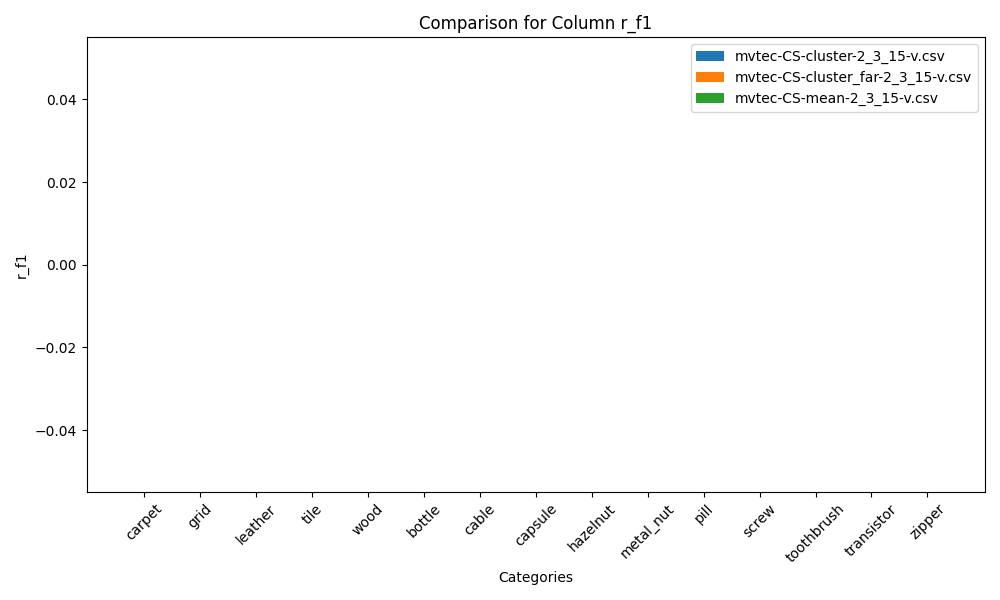
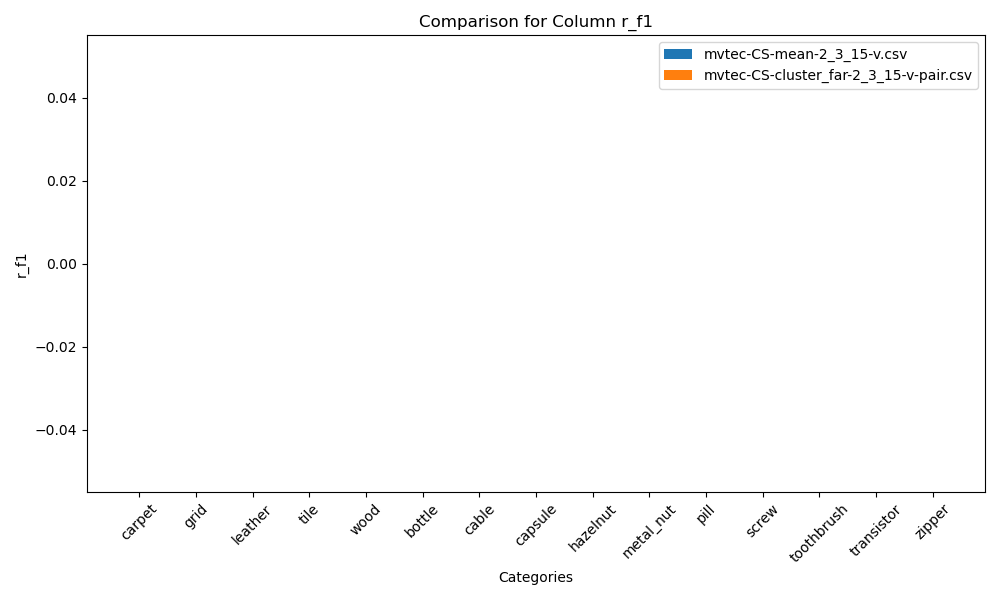
Add text pair code

diff --git a/CLIP_Surgery_zzx/model_inference.py b/CLIP_Surgery_zzx/model_inference.py
@@ -284,11 +284,140 @@ def encode_text_with_prompt_ensemble_anomaly_category(model, category, device, p
     prompt_feature_visualize_4_groups(normal_text_features, abnormal_text_features, tot_nomral_text_features, tot_abnormal_text_features, centroid_normal_text_features, centroid_abnormal_text_features)
     
     if prompt_engineer == 'cluster':
-        return text_features
+        return text_features, normal_text_features, abnormal_text_features, tot_nomral_text_features, tot_abnormal_text_features, centroid_normal_text_features, centroid_abnormal_text_features
     elif prompt_engineer == 'cluster_far':
         centroid_text_features = [torch.from_numpy(centroid_normal_text_features),torch.from_numpy(centroid_abnormal_text_features)]
         centroid_text_features = torch.cat(centroid_text_features, dim=0).to(device)
-        return [centroid_text_features]
+        return [centroid_text_features], normal_text_features, abnormal_text_features, tot_nomral_text_features, tot_abnormal_text_features, centroid_normal_text_features, centroid_abnormal_text_features
+    
+def encode_text_with_prompt_ensemble_anomaly_category_pair_contrast(model, category, device, prompt_engineer):
+    
+    template_level_prompts = [
+        'a cropped photo of the {}',
+        'a cropped photo of a {}',
+        'a close-up photo of a {}',
+        'a close-up photo of the {}',
+        'a bright photo of a {}',
+        'a bright photo of the {}',
+        'a dark photo of the {}',
+        'a dark photo of a {}',
+        'a jpeg corrupted photo of a {}',
+        'a jpeg corrupted photo of the {}',
+        'a blurry photo of the {}',
+        'a blurry photo of a {}',
+        'a photo of a {}',
+        'a photo of the {}',
+        'a photo of a small {}',
+        'a photo of the small {}',
+        'a photo of a large {}',
+        'a photo of the large {}',
+        'a photo of the {} for visual inspection',
+        'a photo of a {} for visual inspection',
+        'a photo of the {} for anomaly detection',
+        'a photo of a {} for anomaly detection'
+    ]
+    
+    state_level_normal_prompts = [
+        # '{}',
+        'flawless {}',
+        'perfect {}',
+        'good {}',
+        'undamaged {}',
+        'unbroken {}',
+        'unblemished {}',
+        '{} without flaw',
+        '{} without defect',
+        '{} without damage'
+        #'three flawless, perfect and unblemished {} with different colors without any defect, flaw or damage in a bowl',
+        #    'flawless, perfect and unblemished {} without any defect, flaw or damage'
+    ]
+
+    state_level_abnormal_prompts = [
+        #   'damaged {} with flaw or defect or damage',
+            'flawed {}',
+            'imperfect {}',
+            'bad {}',
+            'damaged {}',
+            'broken {}',
+            'blemished {}',
+            '{} with flaw',
+            '{} with defect',
+            '{} with damage',
+        ##   '{} with missing parts'
+        ##   '{} with print',  # added
+        ##    '{} with hole',  # added
+        ##   '{} with crack', # added
+        ##   '{} with scratch', # added
+        ##    '{} with discoloration',
+        ##    '{} with stains',
+        ##    '{} with missing parts',
+        ##    '{} with broken parts',
+        ##    '{} with bumpy surfaces'
+    ]
+
+    text_features = []
+    normal_text_features = []
+    abnormal_text_features = []
+    tot_nomral_text_features = []
+    tot_abnormal_text_features = []
+    # some categories can be renamed to generate better embedding
+    #if category == 'grid':
+    #    category  = 'chain-link fence'
+    #if category == 'toothbrush':
+    #    category = 'brush' #'brush' #
+    for template_prompt in template_level_prompts:
+        template_text_features = []
+        # normal prompts
+        template_normal_phrases = []
+        for normal_prompt in state_level_normal_prompts:
+            phrase = template_prompt.format(normal_prompt.format(category))
+            template_normal_phrases += [phrase]
+
+        # abnormal prompts
+        template_anormal_phrases = []
+        for abnormal_prompt in state_level_abnormal_prompts:
+            phrase = template_prompt.format(abnormal_prompt.format(category))
+            template_anormal_phrases += [phrase]
+
+        template_normal_phrases = tokenize(template_normal_phrases).to(device)
+        template_anormal_phrases = tokenize(template_anormal_phrases).to(device)
+    
+        template_normal_text_features = model(template_normal_phrases)
+        template_abnormal_text_features = model(template_anormal_phrases)
+        
+        tot_nomral_text_features.append(template_normal_text_features)
+        tot_abnormal_text_features.append(template_abnormal_text_features)
+        
+        template_normal_text_features /= template_normal_text_features.norm(dim=-1, keepdim=True)
+        template_normal_text_features = template_normal_text_features.mean(dim=0)
+        template_normal_text_features /= template_normal_text_features.norm()
+        template_text_features.append(template_normal_text_features)
+        normal_text_features.append(template_normal_text_features)
+        
+        template_abnormal_text_features /= template_abnormal_text_features.norm(dim=-1, keepdim=True)
+        template_abnormal_text_features = template_abnormal_text_features.mean(dim=0)
+        template_abnormal_text_features /= template_abnormal_text_features.norm()
+        template_text_features.append(template_abnormal_text_features)
+        abnormal_text_features.append(template_abnormal_text_features)
+        
+        
+        template_text_features = torch.stack(template_text_features, dim=1).to(device).t()
+        
+        text_features.append(template_text_features)    
+
+    tot_nomral_text_features = torch.cat(tot_nomral_text_features, dim=0).to(device)
+    tot_abnormal_text_features = torch.cat(tot_abnormal_text_features, dim=0).to(device)
+    # visualize the group of features
+    # prompt_feature_visualize(normal_text_features, abnormal_text_features, tot_nomral_text_features, tot_abnormal_text_features)
+    centroid_normal_text_features, centroid_abnormal_text_features = centroid_feature_engineer(normal_text_features, abnormal_text_features)
+    prompt_feature_visualize_4_groups(normal_text_features, abnormal_text_features, tot_nomral_text_features, tot_abnormal_text_features, centroid_normal_text_features, centroid_abnormal_text_features)
+    
+    if prompt_engineer == 'cluster':
+        return text_features, normal_text_features, abnormal_text_features, tot_nomral_text_features, tot_abnormal_text_features, centroid_normal_text_features, centroid_abnormal_text_features
+    elif prompt_engineer == 'cluster_far':
+        centroid_text_features = [torch.from_numpy(centroid_normal_text_features),torch.from_numpy(centroid_abnormal_text_features)]
+        centroid_text_features = torch.cat(centroid_text_features, dim=0).to(device)
+        return [centroid_text_features], normal_text_features, abnormal_text_features, tot_nomral_text_features, tot_abnormal_text_features, centroid_normal_text_features, centroid_abnormal_text_features
 
 import matplotlib.pyplot as plt
 from sklearn.manifold import TSNE

diff --git a/CLIP_Surgery_zzx/test_prompt_pair.py b/CLIP_Surgery_zzx/test_prompt_pair.py
@@ -8,13 +8,14 @@ from utils.csv_utils import *
 from utils.metrics import *
 from utils.training_utils import *
 from utils.eval_utils import *
-from model_inference import encode_text_with_prompt_ensemble_anomaly, encode_text_with_prompt_ensemble_anomaly_category
+from model_inference import encode_text_with_prompt_ensemble_anomaly, encode_text_with_prompt_ensemble_anomaly_category, encode_text_with_prompt_ensemble_anomaly_category_pair_contrast
 
 from torchvision.utils import save_image
+from tqdm import tqdm
 
 import clip_zzx
 
-def test(model_text,
+def test_analyse(model_text,
          model_image,
          preprocess,
          dataloader: DataLoader,
@@ -31,11 +32,11 @@ def test(model_text,
     if prompt_engineer == 'mean':
         text_features = encode_text_with_prompt_ensemble_anomaly(model_text, class_name, device)
     else:
-        text_features, _ = encode_text_with_prompt_ensemble_anomaly_category(model_text, class_name, device, prompt_engineer)
+        # text_features, normal_text_features, abnormal_text_features, tot_nomral_text_features, tot_abnormal_text_features, centroid_normal_text_features, centroid_abnormal_text_features = encode_text_with_prompt_ensemble_anomaly_category(model_text, class_name, device, prompt_engineer)
+        text_features, normal_text_features, abnormal_text_features, tot_nomral_text_features, tot_abnormal_text_features, centroid_normal_text_features, centroid_abnormal_text_features = encode_text_with_prompt_ensemble_anomaly_category_pair_contrast(model_text, class_name, device, prompt_engineer)
         
     # model.build_text_feature_gallery(class_name)
     logger.info('build text feature gallery finished.')
-
 
     scores = []
     multi_scale_scores = []
@@ -70,9 +71,47 @@ def test(model_text,
         case_similarity_map_list = []
         for text_feature in text_features:
             features = image_features @ text_feature.t()
+            
+            '''Search for largest text prompt pairs
+            '''
+            # image_features = image_features[:, 1:, :]        
+                
+            # normal_features = image_features @ tot_nomral_text_features.t()         # shape = [B, n^2, num_text_prompts]
+            # abnormal_features = image_features @ tot_abnormal_text_features.t() 
+            
+            # # Search maximum distance prompt pairs
+            # # distances = torch.norm(normal_features - abnormal_features, dim = (0, 1, 2))
+            # max_distances, max_distance_indices = torch.max(torch.norm(normal_features - abnormal_features, dim = 1), dim=1)
+            # normality_and_abnormality_features = torch.stack((normal_features[torch.arange(normal_features.shape[0]), :, max_distance_indices], abnormal_features[torch.arange(abnormal_features.shape[0]), :, max_distance_indices]), dim = -1)
+            
+            
+            
+            '''Random search'''
+            # # Initialize variables to store the maximum distance and corresponding indices
+            # max_distance = -1
+            # max_distance_indices = None
+            # # choose the features based on the longest distance
+            # B, P, N = normal_features.shape
+            # _, _, A = abnormal_features.shape -1
+            # max_distance_indices = []
+            # normality_and_abnormality_features = torch.zeros([B, P, 2])
+            
+            # logger.info("Find largest prompt pairs...")
+            # for i in tqdm(range(B)):
+            #     max_distance = -1
+            #     for j in range(N):
+            #         for k in range(A):
+            #             distance = torch.norm(normal_features[i, :, j] - abnormal_features[i, :, k])
+            #             if distance > max_distance:
+            #                 max_distance = distance
+            #                 # max_distance_indices.append([j, k])
+            #                 normality_and_abnormality_features[i, :, 0] = normal_features[i, :, j]
+            #                 normality_and_abnormality_features[i, :, 1] = abnormal_features[i, :, k]
+            # distances = torch.norm(normal_features.unsqueeze(-1) - abnormal_features.unsqueeze(-2), dim=(1,2,3))
+     
             # calculate anomaly map
-            # normality_and_abnormality_score = features[:, 1:, :].softmax(dim=-1)
             normality_and_abnormality_score = (100*features[:, 1:, :]).softmax(dim=-1)
+            # normality_and_abnormality_score = (30*normality_and_abnormality_features).softmax(dim=-1)
             normality_and_abnormality_score = normality_and_abnormality_score.reshape(normality_and_abnormality_score.shape[0], int(normality_and_abnormality_score.shape[1] ** 0.5), int(normality_and_abnormality_score.shape[1] ** 0.5), -1)
             
             normality_and_abnormality_score = normality_and_abnormality_score.permute(0, 3, 1, 2)

diff --git a/CLIP_Surgery_zzx/main.py b/CLIP_Surgery_zzx/main.py
@@ -6,6 +6,7 @@ from utils.training_utils import *
 # from WinCLIP import *
 # from utils.eval_utils import *
 from test import test
+from CLIP_AD.CLIP_Surgery_zzx.test_prompt_pair import test_analyse
 
 from model_inference import ImageCLIP, TextCLIP
 # specifically for clip surgery
@@ -62,9 +63,13 @@ def run_winclip(classname, args):
     
     # evaluation
     with torch.no_grad():
-        metrics = test(model_text, model_image, preprocess, test_dataloader, device, is_vis=True, img_dir=img_dir,
-                class_name=kwargs['class_name'], cal_pro=kwargs['cal_pro'], train_data=train_dataloader,
-                resolution=kwargs['resolution'], prompt_engineer=kwargs['prompt_engineer'])
+        # metrics = test(model_text, model_image, preprocess, test_dataloader, device, is_vis=True, img_dir=img_dir,
+        #         class_name=kwargs['class_name'], cal_pro=kwargs['cal_pro'], train_data=train_dataloader,
+        #         resolution=kwargs['resolution'], prompt_engineer=kwargs['prompt_engineer'])
+        if kwargs['search_prompt']:
+            metrics = test_analyse(model_text, model_image, preprocess, test_dataloader, device, is_vis=True, img_dir=img_dir,
+                    class_name=kwargs['class_name'], cal_pro=kwargs['cal_pro'], train_data=train_dataloader,
+                    resolution=kwargs['resolution'], prompt_engineer=kwargs['prompt_engineer'])
     # for k, v in metrics.items():
     #     logger.info(f"{kwargs['class_name']}======={k}: {v:.2f}")
         
@@ -101,7 +106,9 @@ def get_args():
     parser.add_argument("--backbone", type=str, default="CS-ViT-B/16",
                         choices=['ViT-B-16-plus-240', 'CS-ViT-B/16', 'ViT-B/16'])
     parser.add_argument("--pretrained_dataset", type=str, default="laion400m_e32")
-    parser.add_argument("--prompt_engineer", type=str, default="cluster_far", choices=['cluster', 'mean', 'cluster_far'])
+    parser.add_argument("--prompt_engineer", type=str, default="mean", choices=['cluster', 'mean', 'cluster_far'])
+    parser.add_argument("--search_prompt", type=bool, default=True)
+    parser.add_argument("--single_word", type=str, default=None, choices = ['damaged', 'flawless'])
 
     parser.add_argument("--use-cpu", type=int, default=0)
 

diff --git a/CLIP_Surgery_zzx/utils/training_utils.py b/CLIP_Surgery_zzx/utils/training_utils.py
@@ -34,7 +34,9 @@ def get_dir_from_args(root_dir, class_name, **kwargs):
     attention_string = kwargs['attention_mode']
     backbone_string = kwargs['backbone'].split('-')[0]
     prompt_string = kwargs['prompt_engineer']
-    exp_name = f"{kwargs['dataset']}-{backbone_string}-{prompt_string}-{scales_string}-{attention_string}"
+    search_prompt_string = 'pair' if kwargs['search_prompt'] else None
+    single_word_string = kwargs['single_word'] if kwargs['single_word'] else None
+    exp_name = f"{kwargs['dataset']}-{backbone_string}-{prompt_string}-{scales_string}-{attention_string}-{search_prompt_string}-{single_word_string}"
 
     # exp_name = f"{kwargs['dataset']}-{kwargs['k_shot']}"
 

diff --git a/ZsadCLIP/random_word_train_fnn.py b/ZsadCLIP/random_word_train_fnn.py
@@ -426,7 +426,6 @@ def test(args):
         table.append(str(np.round(f1_sp * 100, decimals=1)))
         table.append(str(np.round(aupr_sp * 100, decimals=1)))
         
-    
         table_ls.append(table)
         auroc_sp_ls.append(auroc_sp)
         auroc_px_ls.append(auroc_px)
